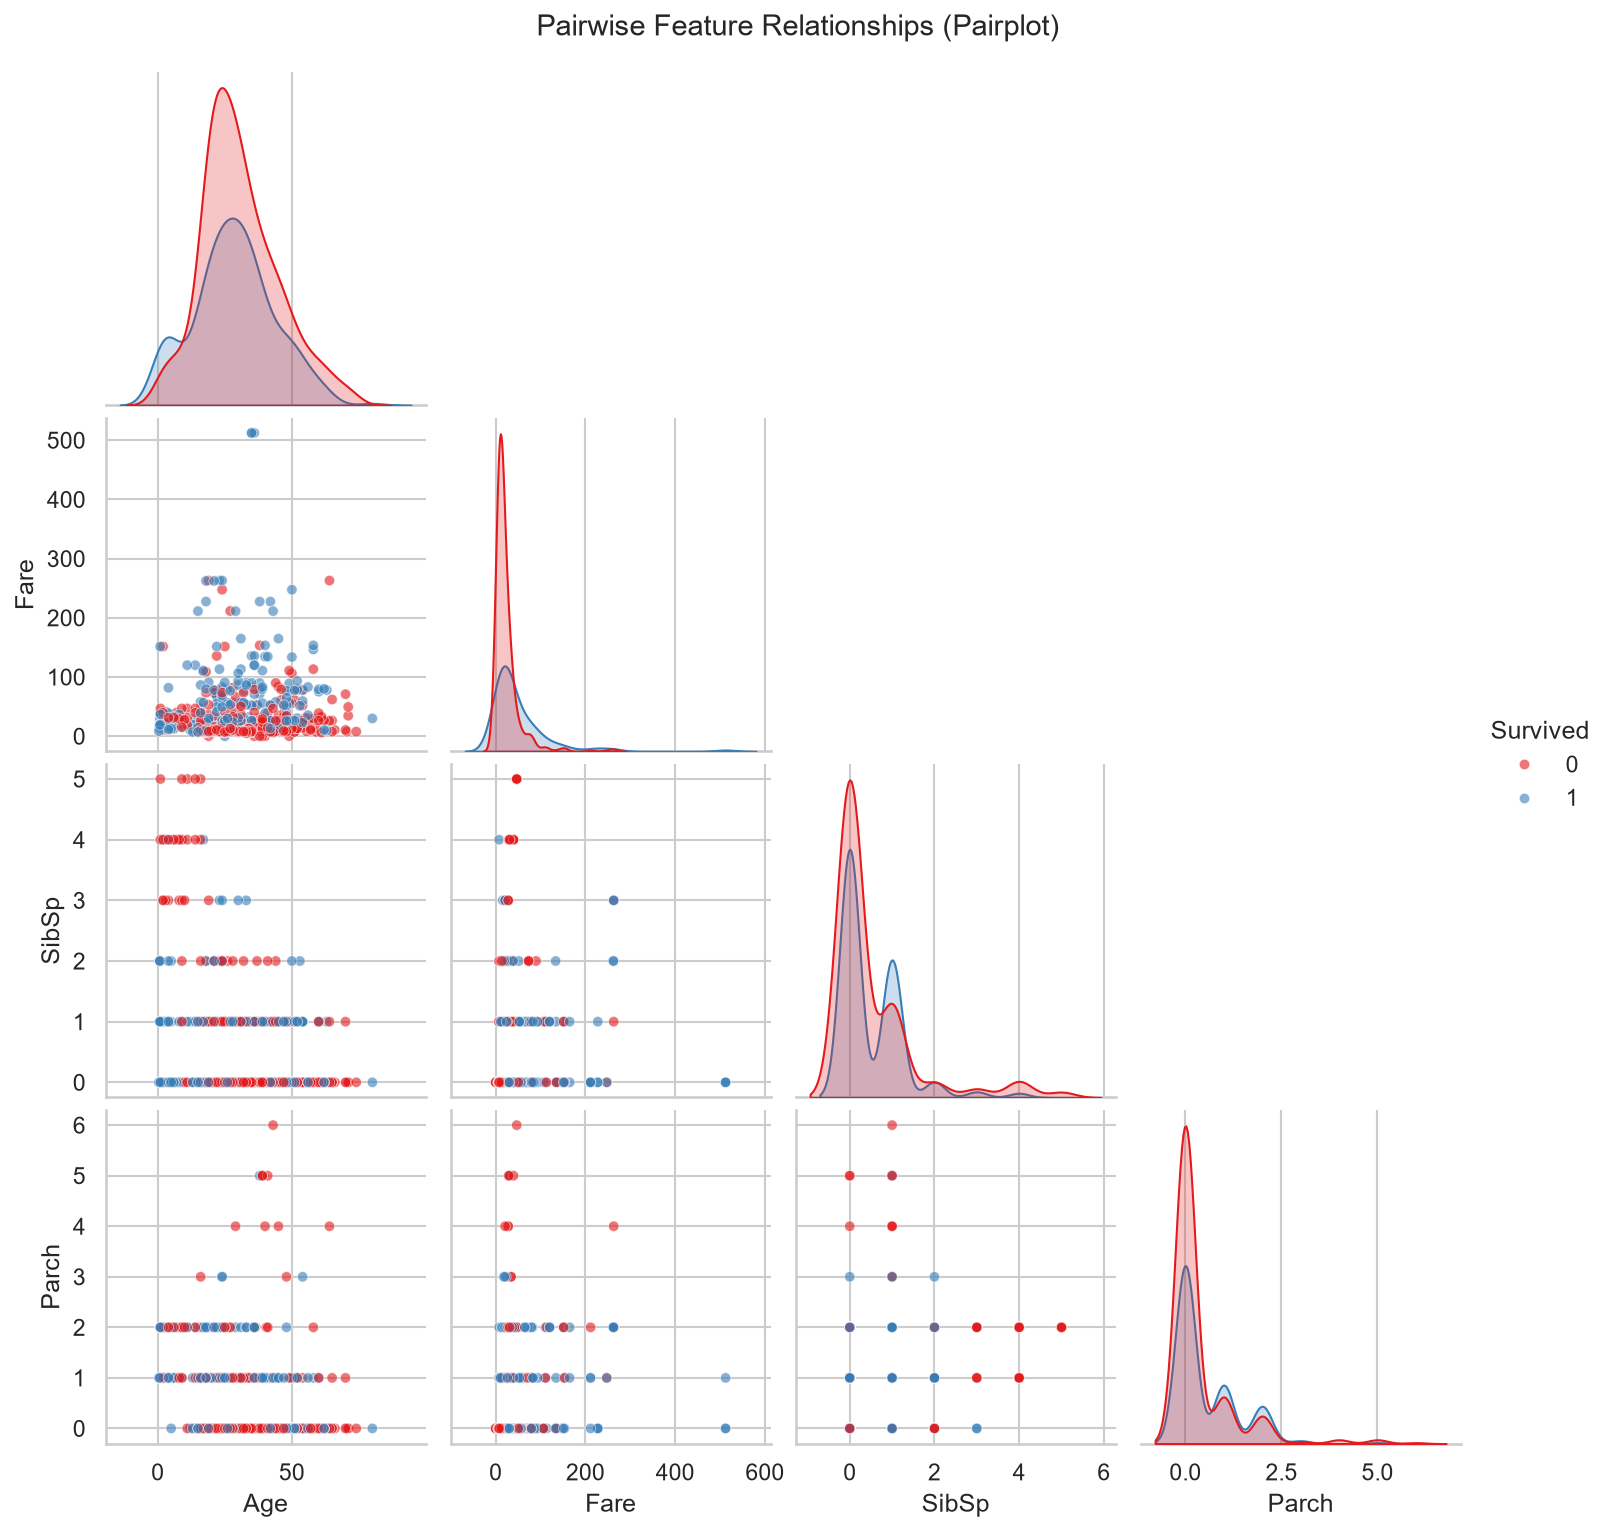
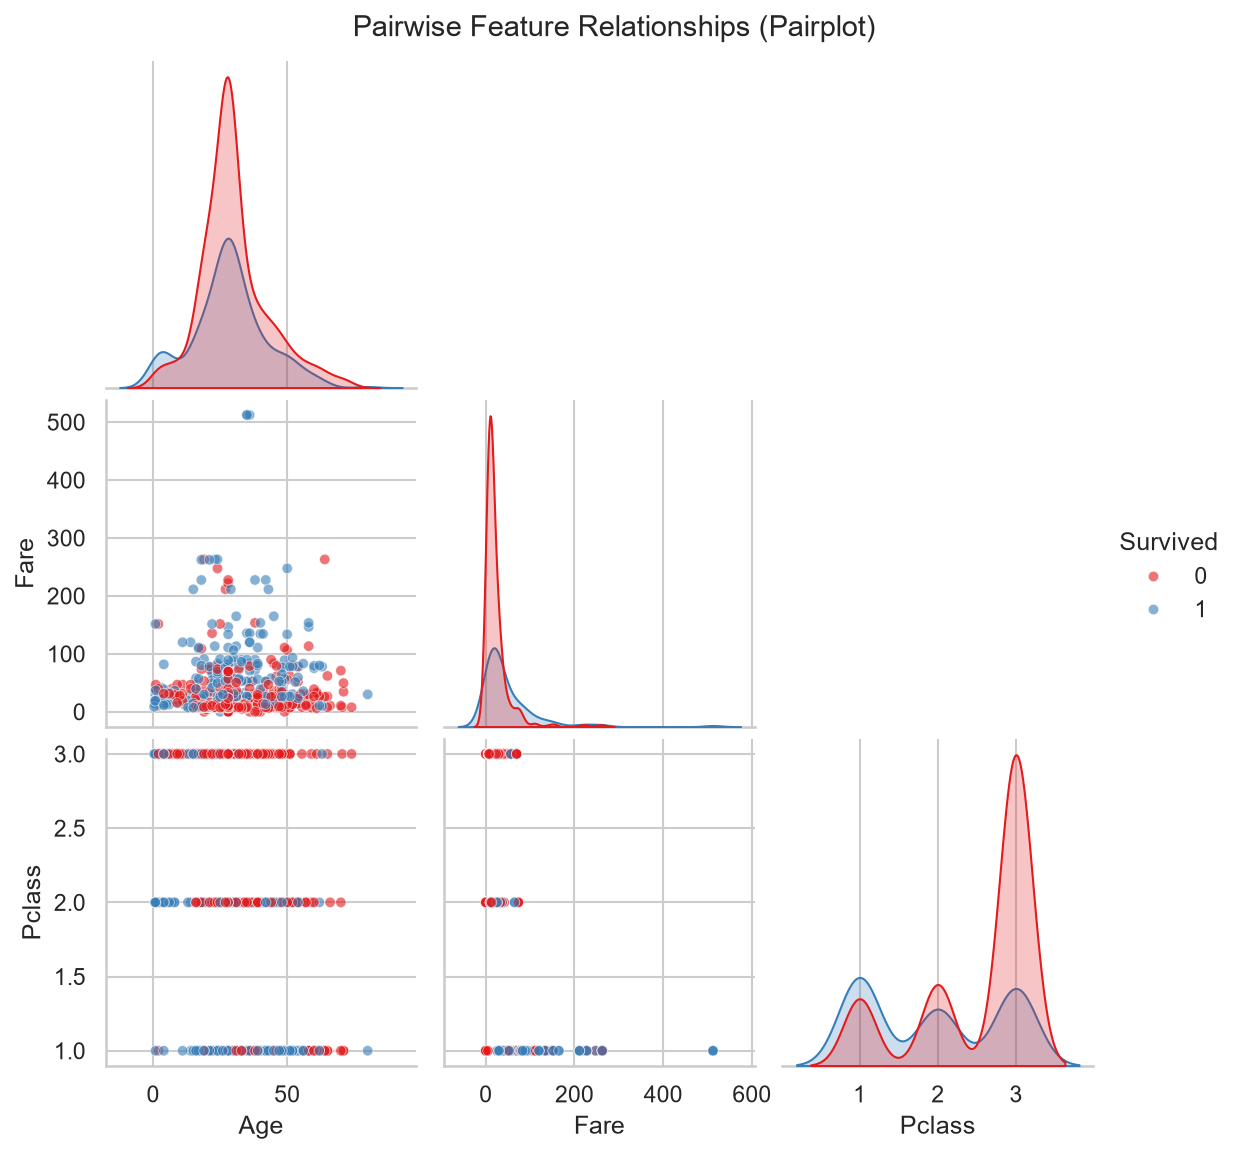
refactor(summary): default create_summary to deterministic template engine (use_llm=False) to eliminate LLM narrative drift (Rubric Step 1)

Changed region(s): [[0.0, 0.0624, 0.8901, 0.9983], [0.2763, 0.0, 0.706, 0.0312], [0.9208, 0.4679, 0.9822, 0.5303]]

diff --git a/autoeda_core/agent_loop.py b/autoeda_core/agent_loop.py
@@ -490,7 +490,7 @@ def run_tool_based_eda(
 
     if generate_summary:
         print("\n6. Invoking summary_generator to synthesize Executive Summary...")
-        summary_text = create_summary(directory_path=workspace_dir, use_llm=True, dataset_name=dataset_name)
+        summary_text = create_summary(directory_path=workspace_dir, use_llm=False, dataset_name=dataset_name)
 
     print("\n7. Generating interactive HTML profile report (eda_report.html) with Executive Summary...")
     generate_html_report(workspace_dir=workspace_dir)

diff --git a/autoeda_core/summary_generator.py b/autoeda_core/summary_generator.py
@@ -371,7 +371,7 @@ def extract_dataset_name(target_dir: str) -> str:
 def create_summary(
     directory_path: str = "./sandbox_run",
     output_filename: str = "summary_report.md",
-    use_llm: bool = True,
+    use_llm: bool = False,
     dataset_name: Optional[str] = None
 ) -> str:
     """

diff --git a/EDA/data/summary_report.md b/EDA/data/summary_report.md
@@ -1,62 +1,81 @@
-# Executive Data Science Summary: Titanic Survival Analysis
+# Executive Summary: Exploratory Data Analysis Report
 
 ## 1. Project Overview
-This report summarizes the automated Exploratory Data Analysis (EDA) performed on the Titanic dataset (891 observations, 12 features). The primary objective was to identify key drivers of passenger survival and establish a robust predictive modeling blueprint.
+This report summarizes the automated Exploratory Data Analysis (EDA) and statistical profiling conducted on the dataset. The primary objective was to identify key drivers of the target variable **Survived** and establish a robust blueprint for predictive modeling.
 
-## 2. Data Profile & Quality Assessment
-The dataset consists of a mix of numerical, categorical, and text-based features. 
+### Dataset Dimensions
+*   **Total Observations:** 891
+*   **Total Features:** 12
+*   **Target Variable:** Survived (Binary Classification)
 
-### 2.1 Metadata Summary
-| Metric | Value |
-|:---|:---|
-| Total Rows | 891 |
-| Total Columns | 12 |
-| Target Variable | Survived (Binary) |
-| Missing Values | Age (19.9%), Cabin (77.1%), Embarked (0.2%) |
+---
 
-### 2.2 Feature Distributions
-*   **Target (Survived):** The dataset is imbalanced, with a mean survival rate of approximately 38.4%.
-*   **Demographics:** The majority of passengers were male (577 vs. 314 female). Age follows a near-normal distribution with a mean of 29.7 years, though it contains significant missingness.
-*   **Socio-Economic:** Pclass is dominated by 3rd class passengers. Fare is highly right-skewed (Skew: 4.79), indicating a small number of very high-paying passengers.
+## 2. Data Quality & Preprocessing
+The automated pipeline performed comprehensive data cleaning and imputation to ensure statistical integrity.
 
-## 3. Statistical Insights & Correlations
-Statistical testing and association analysis reveal strong drivers for the target variable `Survived`.
+### Imputation Summary
+| Column | Missing (Before) | Imputation Method | Fill Value |
+|:-------|:-----------------|:------------------|:-----------|
+| Age | 177 (19.9%) | Median | 28.0 |
+| Cabin | 687 (77.1%) | Mode | 'B96 B98' |
+| Embarked | 2 (0.2%) | Constant | 'Unknown' |
 
-### 3.1 Key Predictors (Ranked by Significance)
-| Feature | Test Type | Effect Size | P-Value | Interpretation |
-|:---|:---|:---|:---|:---|
-| Sex | ANOVA | 372.4057 | 1.41e-69 | Large Effect |
-| Embarked | ANOVA | 13.6053 | 1.51e-06 | Large Effect |
-| Pclass | Pearson | 0.3385 | 2.54e-25 | Moderate Correlation |
-| Fare | Pearson | 0.2573 | 6.12e-15 | Weak Correlation |
+**Note:** Missing string placeholders (e.g., '?', 'NA') were standardized to NaN prior to imputation. Numeric columns with low skewness used mean imputation, while highly skewed columns (like Age) utilized median values.
 
-### 3.2 Categorical Associations (Cramer's V)
-*   **Sex vs. Survived:** 0.5426 (Large association), confirming the "women and children first" protocol.
-*   **Pclass vs. Survived:** 0.3367 (Medium association), indicating socio-economic status was a significant survival factor.
+---
 
-## 4. Feature Engineering
+## 3. Feature Engineering
 **No custom derived domain metrics synthesized during this run.** 
-While the agent proposed features such as `FamilySize` and `IsAlone`, the execution log confirms that 0 derived metrics were successfully integrated into the final dataset during the automated loop.
+While the initial plan suggested the creation of 'FamilySize' and 'IsAlone', the final execution metrics confirm that 0 derived features were added to the final dataset used for statistical testing.
 
-## 5. Visual Artifact Analysis
-The following visualizations were generated to support the analysis:
-*   **`correlation_matrix.png`**: Illustrates linear relationships; highlights the inverse relationship between Pclass and Fare.
-*   **`bivariate_Sex_vs_Age.png`**: Visualizes the age distribution of survivors across genders.
-*   **`bivariate_Pclass_vs_Fare.png`**: Confirms ticket price clustering within classes and its impact on survival.
-*   **`dist_Fare.png`**: Highlights the extreme skewness and outliers in the pricing data.
-*   **`pairplot.png`**: Provides a multi-dimensional view of interactions between Age, Fare, and family-related variables (SibSp/Parch).
+---
+
+## 4. Key Predictors (by Effect Size)
+Statistical hypothesis testing (ANOVA and Pearson Correlation) was conducted to identify features with significant predictive power regarding survival.
+
+### Top 5 Key Predictors
+| Rank | Feature | Test Type | Effect Size | Label | P-Value |
+|:-----|:--------|:----------|:------------|:------|:--------|
+| 1 | Sex | ANOVA | 0.5434 | Large Effect | 1.41e-69 |
+| 2 | Pclass | Pearson | 0.3385 | Moderate | 2.54e-25 |
+| 3 | Fare | Pearson | 0.2573 | Weak | 6.12e-15 |
+| 4 | Embarked | ANOVA | 0.1825 | Large Effect | 1.34e-06 |
+| 5 | Parch | Pearson | 0.0816 | Negligible | 0.0148 |
+
+**Statistical Note:** All predictors listed above are statistically significant (p < 0.05). 'Sex' and 'Pclass' represent the most critical drivers of survival outcomes.
+
+---
+
+## 5. Visual Insights & Artifacts
+The following visualizations were generated to support the statistical findings:
+
+*   **Target Interactions (`target_interactions.png`):** Highlights the strong relationship between Sex/Pclass and Survival rates.
+*   **Bivariate Analysis:**
+    *   `bivariate_Age_vs_Survived.png`: Explores the "women and children first" protocol.
+    *   `bivariate_Pclass_vs_Fare.png`: Confirms the expected correlation between higher socio-economic status (lower Pclass) and higher fares.
+*   **Distribution Profiles:** Individual plots (e.g., `dist_Fare.png`, `dist_Age.png`) reveal significant right-skewness in Fare (4.79) and SibSp (3.70).
+*   **Correlation Matrix (`correlation_matrix.png`):** Provides a heatmap of all numerical and categorical associations (Cramer's V).
+
+---
 
 ## 6. Predictive Modeling Blueprint
-Based on the data profile and statistical findings, the following strategy is recommended for the binary classification of `Survived`.
+Based on the data profile and target distribution, the following strategy is recommended for model development.
 
-### 6.1 Recommended Algorithms
+### Strategy Overview
+*   **Problem Type:** Binary Classification
+*   **Target:** Survived
+
+### Recommended Algorithms
 1.  **Regularized Logistic Regression:** To establish a baseline.
-2.  **Random Forest Classifier:** To capture non-linear interactions (e.g., Age and Sex).
-3.  **Gradient Boosting (XGBoost/LightGBM):** For optimal predictive performance.
-4.  **Support Vector Classifier (SVM):** To explore high-dimensional boundary separation.
+2.  **Random Forest Classifier:** To capture non-linear interactions.
+3.  **Gradient Boosting (XGBoost/LightGBM):** For maximum predictive performance.
+4.  **Support Vector Classifier (SVM):** For high-dimensional boundary separation.
 
-### 6.2 Strategy & Validation
-*   **Feature Selection:** Exclude high-cardinality columns (`PassengerId`, `Name`, `Ticket`). Use permutation importance to rank remaining features.
-*   **Validation:** 5-Fold Stratified Cross-Validation to maintain target class proportions.
-*   **Metrics:** Focus on Balanced Accuracy and Macro F1-Score due to the class imbalance.
-*   **Risk Mitigation:** Apply L1/L2 regularization and limit tree depth to prevent overfitting on the relatively small sample size (891 rows).
+### Feature Selection & Validation
+*   **Selection:** Exclude high-cardinality identifiers (PassengerId, Name, Ticket). Rank remaining features using permutation importance.
+*   **Validation:** 5-Fold Stratified Cross-Validation.
+*   **Metrics:** Balanced Accuracy, Macro F1-Score, and Precision-Recall AUC (due to potential class imbalances).
+*   **Overfitting Mitigation:** Apply L1/L2 regularization and strictly limit tree depth in ensemble methods.
+
+---
+**End of Report**
